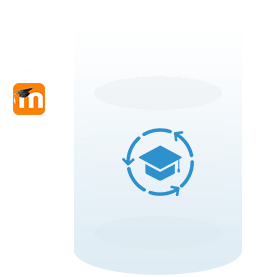
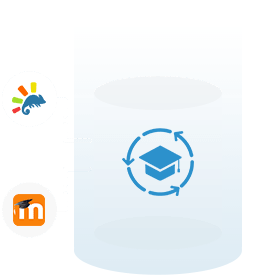
Add landing page for Chamilo

Changed region(s): [[0.0289, 0.6931, 0.1733, 0.8375], [0.0289, 0.2888, 0.1733, 0.4332]]

diff --git a/en/lms/chamilo/installation.md b/en/lms/chamilo/installation.md
@@ -1,0 +1,140 @@
+---
+title: Installation Guide
+onpagelink: installation
+weight: 3
+
+---
+
+### Installation Instructions
+
+#### Install Chamilo on Ubuntu 18.04 LTS with Nginx
+
+#### Install Nginx Web Server
+
+Nginx is the most popular and secure web server. In order to install Nginx, use the following command
+
+ ```
+ sudo apt install nginx 
+```
+
+Once the Nginx is install, configure the domain and restart the Nginx by using the following command
+
+ ```
+ sudo service nginx restart 
+```
+
+#### Install MySQL Server
+
+Next, need to install database Server, use the following command to install MySql server
+
+ ```
+sudo apt-get update;  
+sudo apt-get install mysql-server; 
+mysql_secure_installation 
+```
+
+Once, the database server is installed, use the following command to restart MySql server
+
+ ```
+sudo service mysql restart 
+```
+
+### Install PHP 7.2 and Related Modules
+
+Run commands to add a third-party PPA to Ubuntu.
+
+ ```
+sudo apt-get install software-properties-common
+sudo add-apt-repository ppa:ondrej/php
+sudo apt update
+```
+
+Now, run the following command to install PHP 7.2 and related modules.
+
+ ```
+sudo apt install php7.2-fpm php7.2-common php7.2-sqlite3 php7.2-curl php7.2-intl php7.2-mbstring php7.2-xmlrpc php7.2-mysql php7.2-gd php7.2-xml php7.2-cli php7.2-ldap php7.2-apcu php7.2-zip
+```
+
+#### Create Database for Chamilo
+
+Now, you have installed all the required software and the next step is to login to mysql server and create Chamilo database. Use following command to create database. Change with your database name.
+
+ ```
+CREATE DATABASE chamilo; 
+```
+
+Create a database user called "chamilo" with new password. and granted user full access to the database by running the following commands. Change with your desired database user and with your desired password.
+
+ ```
+CREATE USER 'chamilouser'@'localhost' IDENTIFIED BY 'password_here'; 
+GRANT ALL ON chamilo.* TO 'chamilouser'@'localhost' WITH GRANT OPTION;
+FLUSH PRIVILEGES; EXIT;
+```
+
+#### Download Chamilo
+
+Next, run the commands below to download Chamilo, unzip and move it to Nginx web server directory.
+
+ ```
+cd /tmp && wget https://github.com/chamilo/chamilo-lms/releases/download/v1.11.6/chamilo-1.11.6-php7.zip
+unzip chamilo-1.11.6-php7.zip
+sudo mv chamilo-1.11.6 /var/www/html/chamilo
+
+```
+
+Run the following commands to set permissions.
+
+ ```
+sudo chown -R www-data:www-data /var/www/html/chamilo/
+sudo chmod -R 755 /var/www/html/chamilo/
+
+```
+
+Create Nginx config file for Chamilo site.
+
+ ```
+sudo nano /etc/nginx/sites-available/chamilo
+
+```
+
+Add below code into it and save the file.
+
+ ```
+server {
+    listen 80;
+    listen [::]:80;
+    root /var/www/html/chamilo;
+    index  index.php index.html index.htm;
+    server_name  example.com;
+
+    client_max_body_size 100M;
+
+    location / {
+        try_files $uri /index.php$is_args$args;
+    }
+
+    location ~ [^/].php(/|$) {
+        include snippets/fastcgi-php.conf;
+        fastcgi_pass unix:/run/php/php7.2-fpm.sock;
+        fastcgi_param SCRIPT_FILENAME $document_root$fastcgi_script_name;
+        include fastcgi_params;
+    }
+}
+
+```
+
+Create symlink to enable newly created site.
+
+ ```
+sudo ln -s /etc/nginx/sites-available/chamilo /etc/nginx/sites-enabled/
+
+```
+
+Restart Nginx web server.
+
+ ```
+sudo systemctl restart nginx
+
+```
+
+Now, open browser and type http://example.com to access the site. Follow the installation wizard to install Chamilo.

diff --git a/en/lms/chamilo/_index.md b/en/lms/chamilo/_index.md
@@ -1,0 +1,32 @@
+---
+title: Chamilo | Free And Open Source LMS For E-learning Sites
+description: Chamilo is a free and open-source e-learning platform. Lightweight & flexible cross-platform solution for web-based applications that is compatible with SCORM.
+keywords: lms for elearning, elearning lms, free elearning tool, open source elearning platform, free learning management software
+singlepageh1title: Create Online Learning Website With Free E-learning Tool
+singlepageh2title: Improve access to education by building online e-learning platforms with free learning management software. Easily create courses and track student's progress.
+Shortdescriptionlistingpage: Chamilo is a free and open-source LMS for e-learning sites. It's a lightweight and adaptable PHP-based web program that supports LDAP for user authentication.
+linktitle: Chamilo
+Imagetext:  LMS For E-learning
+draft: false
+weight: 2
+layout: "single"
+GithubLink: https://github.com/chamilo/chamilo-lms
+HomePage_TitleText: LMS For E-learning
+
+ListingPage_MenuImage_TitleText: 
+ListingPage_MenuImage_AltText: Chamilo - LMS For E-learning
+ListingPage_Link_TitleText: Explore Chamilo
+
+SinglePage_HeaderImage_TitleText: LMS For E-learning
+SinglePage_HeaderImage_AltText: LMS For E-learning
+SinglePage_MenuImage_TitleText: LMS For E-learning
+SinglePage_MenuImage_AltText: LMS For E-learning
+
+
+---
+
+Chamilo is a free e-learning tool that allows users to create web-based online learning apps. It's an open-source e-learning platform that's both lightweight and adaptable. Chamilo is a PHP-based web application that uses a MySQL database to store data. It is one of the most widely used LMS for e-learning, with over 20 million people around the world. Chamilo 2.0 is still in development, however, users can still use it till version 1.11.x. It is released under the GNU/GPLv3 license. This free learning management system is cross-platform and works on Windows, Linux, and Mac OS X.
+
+Chamilo includes several useful features, such as a course catalog, user creation & role management, skill management, certificate creation, SCORM support, and many more. It also has a shopping cart to assist trainers in selling courses and earning money. Chamilo can be used for a variety of learning and collaboration activities. Teachers can use the web to create, manage, publish their courses, and track trainee's progress. Students can follow courses, read materials, actively participate in groups, forums, and chat rooms.
+
+Users are authenticated from the database by default. Chamilo, on the other hand, has an LDAP module that allows administrators to disable database authentication and replace it with LDAP authentication. Developers can also modify and improve the core functionality by incorporating available extensions. Chamilo also allows for the building of bespoke extensions to meet unique business requirements.

diff --git a/en/lms/chamilo/features.md b/en/lms/chamilo/features.md
@@ -1,0 +1,23 @@
+---
+title: Features
+onpagelink: features
+weight: 2
+
+---
+
+### Features
+
+Following are the key features of Chamilo:
+
+- Free and open source
+- Courses management
+- Users management
+- Document management
+- Social learning network
+- Customizable interface
+- Integration with third-party tools
+- Time-controlled exams
+- Automated generation of certificates
+- Mobile rriendly
+- Tracking of users progress
+ 

diff --git a/en/lms/chamilo/explore.md b/en/lms/chamilo/explore.md
@@ -1,0 +1,14 @@
+---
+title: Explore
+onpagelink: explore
+weight: 4
+
+---
+
+### Explore
+
+You may find the following links relevant:
+
+- [Top Open Source LMS Software](https://products.containerize.com/lms/)
+- [Moodle - E-learning System](https://products.containerize.com/lms/moodle/)
+ 

diff --git a/en/lms/chamilo/requirements.md b/en/lms/chamilo/requirements.md
@@ -1,0 +1,15 @@
+---
+title: System Requirements
+onpagelink: requirements
+weight: 1
+
+---
+
+### System Requirements
+
+In order to install Chamilo, you must have the following softwares:
+
+- Apache 2.2 or greater / Nginx
+- PHP 7.2 or greater
+- MySQL 5.6 or greater
+ 
